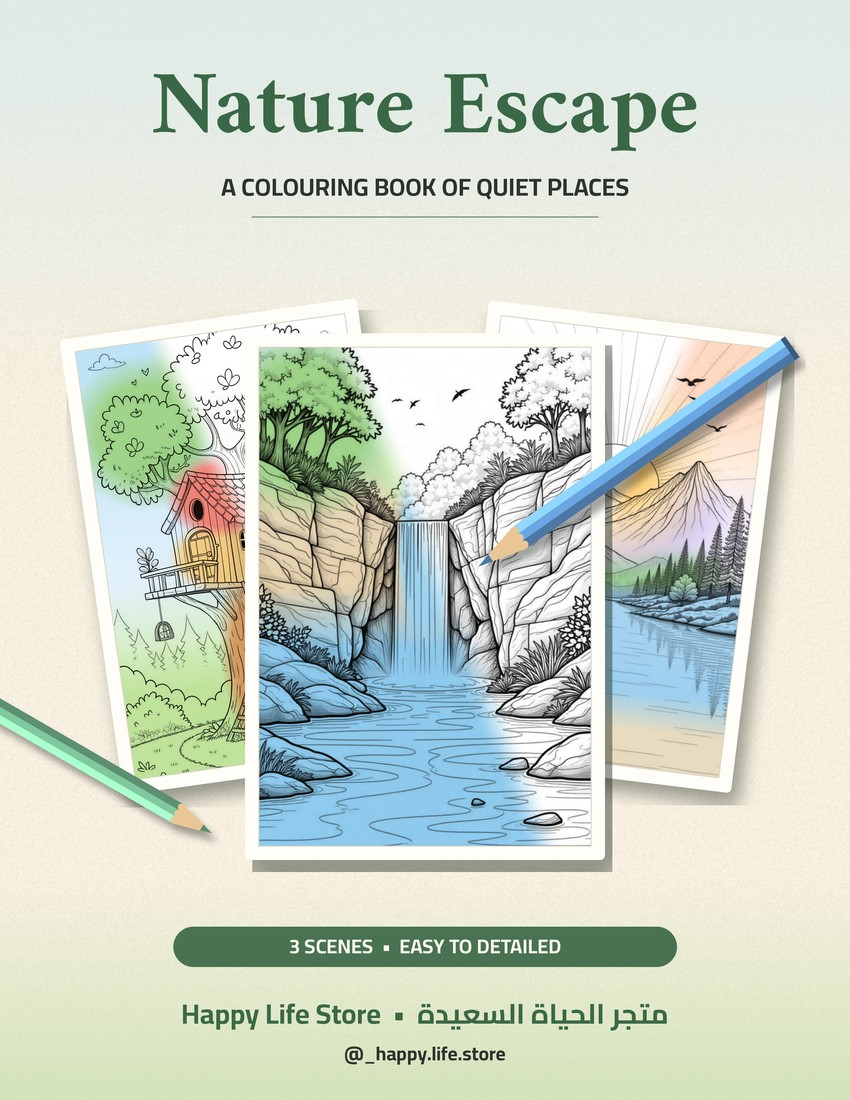
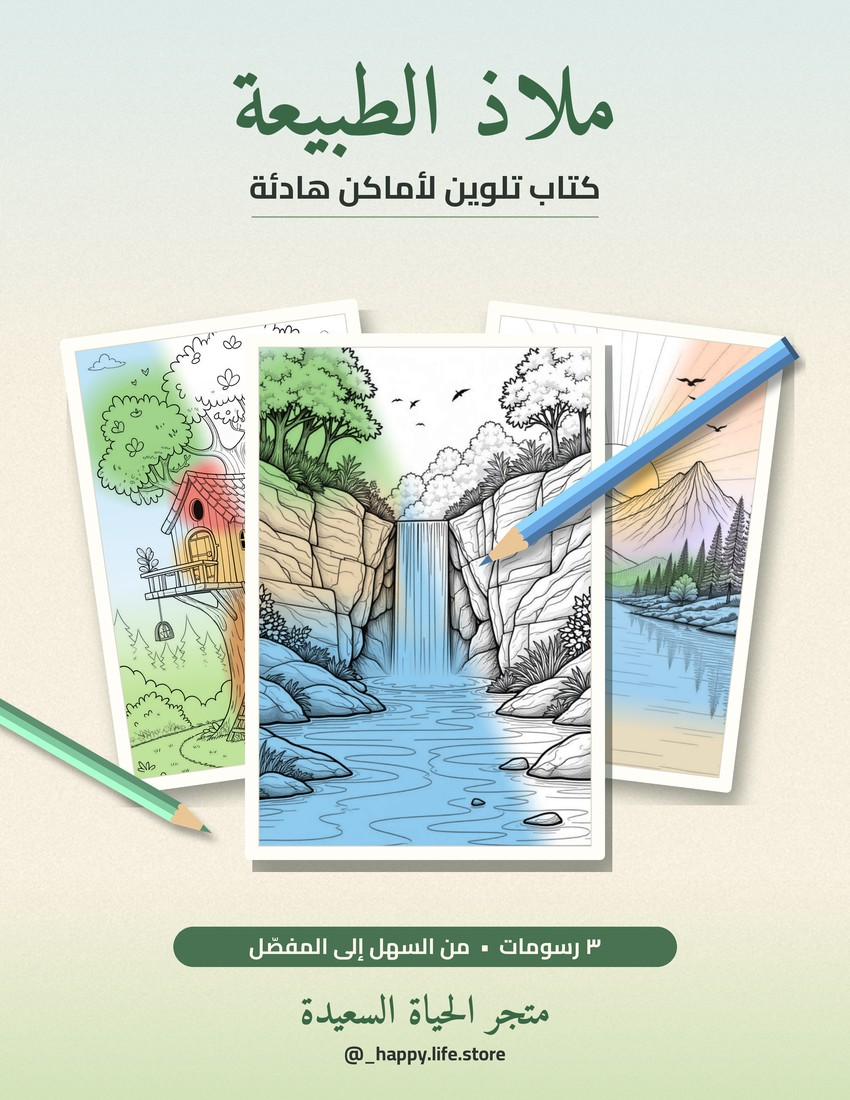
Put the Nature Escape cover text in Arabic
Claude-Session: https://claude.ai/code/session_01D9TXrJesAJjhQBz49Wkqns

Changed region(s): [[0.1835, 0.0618, 0.8259, 0.1855], [0.2141, 0.8345, 0.7953, 0.9582]]

diff --git a/make_cover.py b/make_cover.py
@@ -2,7 +2,7 @@
 """Front covers for the two Happy Life Store coloring books.
 
   1. ماندالا الزهور (Floral Mandalas) - Arabic adult coloring book, pages in pages/
-  2. Nature Escape - the three scenes sold in the happy_store site
+  2. ملاذ الطبيعة (Nature Escape) - the three scenes sold in the happy_store site
 
 Each cover shows its art half colored and half line art, so buyers see what the
 pages look like before and after coloring.
@@ -25,8 +25,9 @@ CW, CH = 2550, 3300            # 8.5 x 11 in at 300 dpi
 OUT = ROOT / "output" / "covers"
 STORE_DIR = Path(sys.argv[1]) if len(sys.argv) > 1 else ROOT.parent / "happy_store"
 
-NATURE_TITLE = "Nature Escape"
-NATURE_SUB = "A colouring book of quiet places"
+NATURE_TITLE = "ملاذ الطبيعة"            # Nature Escape
+NATURE_SUB = "كتاب تلوين لأماكن هادئة"   # A colouring book of quiet places
+NATURE_BADGE = "٣ رسومات  •  من السهل إلى المفصّل"  # 3 scenes - easy to detailed
 NATURE_PAGES = [("treehouse-hideaway", "treehouse.webp"),
                 ("hidden-waterfall", "waterfall.webp"),
                 ("mountain-lake-sunrise", "mountain-lake.webp")]
@@ -252,8 +253,8 @@ def cover_nature():
     d = ImageDraw.Draw(c, "RGBA")
 
     green, ink = (58, 104, 70), (44, 52, 48)
-    text_center(d, (CW / 2, 330), NATURE_TITLE, font(FONT_AR_DISPLAY, 270), green)
-    text_center(d, (CW / 2, 560), NATURE_SUB.upper(), font(FONT_AR_BOLD, 74), ink)
+    text_center(d, (CW / 2, 330), NATURE_TITLE, font(FONT_AR_DISPLAY, 290), green)
+    text_center(d, (CW / 2, 560), NATURE_SUB, font(FONT_AR_BOLD, 96), ink)
     d.line([CW / 2 - 520, 650, CW / 2 + 520, 650], fill=(*green, 160), width=4)
 
     # three scenes as tilted cards: waterfall in front
@@ -267,8 +268,8 @@ def cover_nature():
 
     d = ImageDraw.Draw(c, "RGBA")
     d.rounded_rectangle([520, 2780, CW - 520, 2900], 60, fill=(*green, 235))
-    text_center(d, (CW / 2, 2838), "3 SCENES  •  EASY TO DETAILED", font(FONT_AR_BOLD, 60), (252, 246, 234))
-    text_center(d, (CW / 2, 3040), "Happy Life Store  •  " + STORE, font(FONT_AR_BOLD, 84), green)
+    text_center(d, (CW / 2, 2838), NATURE_BADGE, font(FONT_AR_BOLD, 66), (252, 246, 234))
+    text_center(d, (CW / 2, 3040), STORE, font(FONT_AR_DISPLAY, 120), green)
     text_center(d, (CW / 2, 3160), HANDLE, font(FONT_AR_BOLD, 58), ink)
     return c
 
